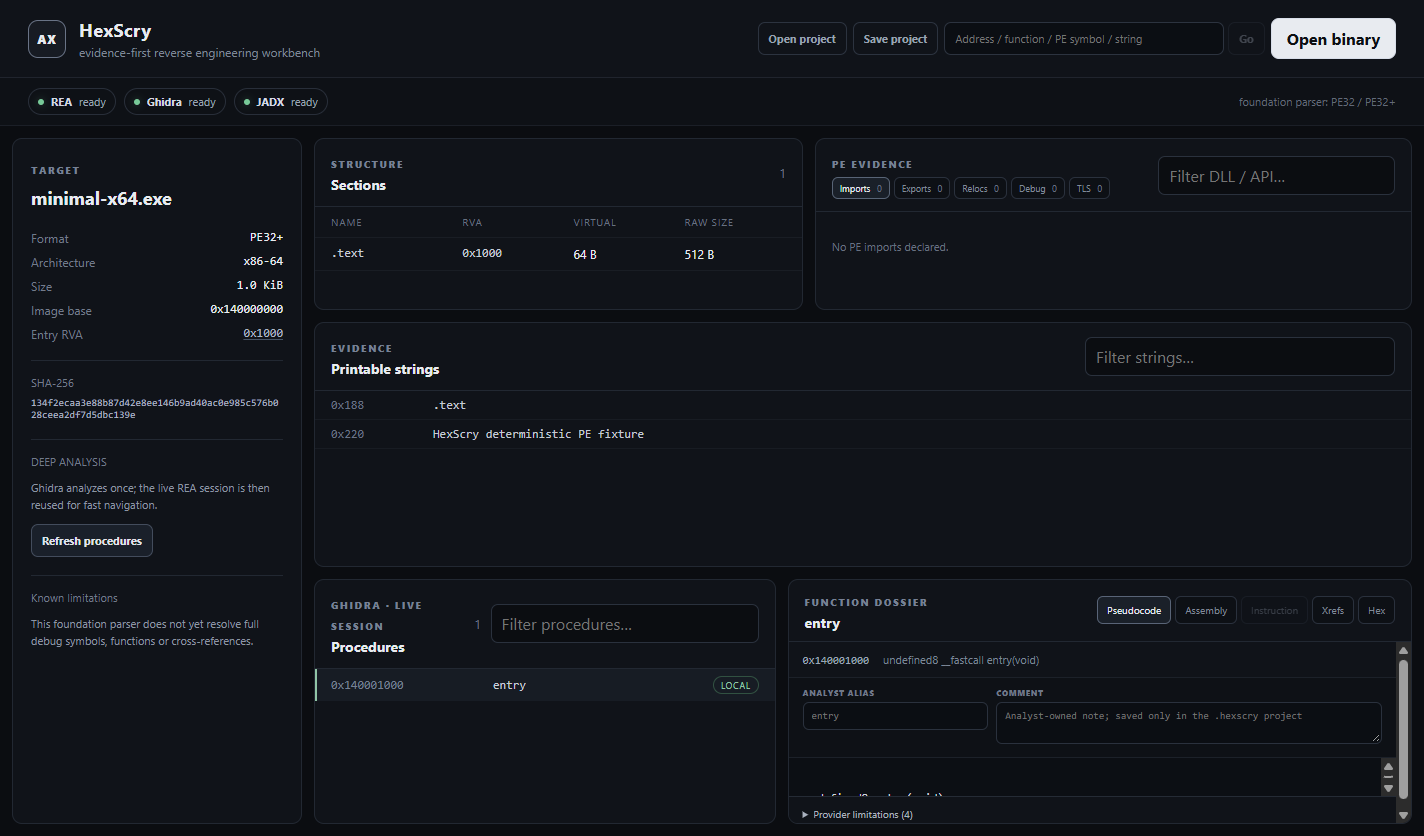
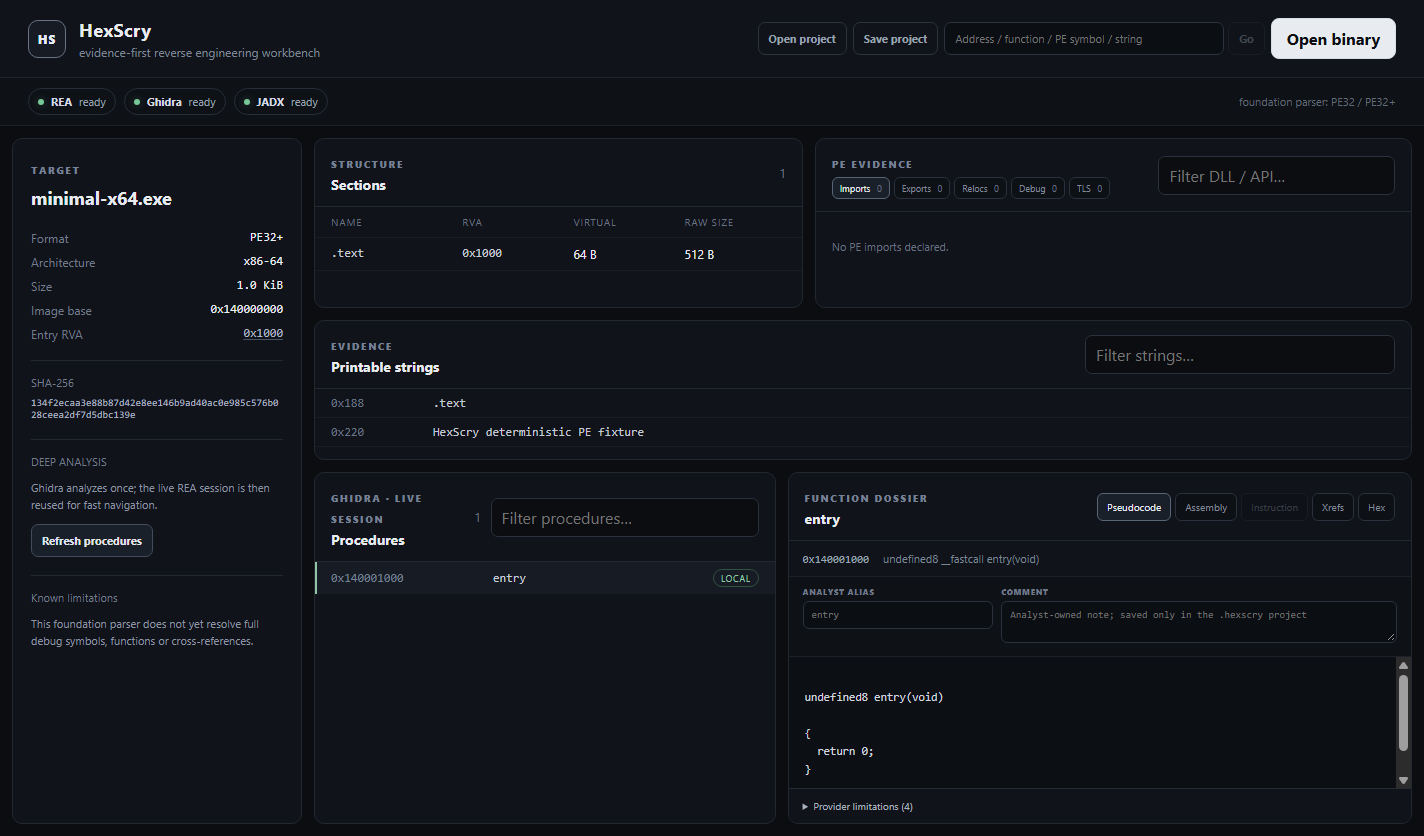
Give the function dossier enough room to read its code

diff --git a/apps/desktop/src/renderer/src/styles.css b/apps/desktop/src/renderer/src/styles.css
@@ -114,7 +114,7 @@ dt { color: #727b8a; } dd { margin: 0; text-align: right; font-family: ui-monosp
 
 .content-grid {
   display: grid;
-  grid-template-rows: minmax(170px, .7fr) minmax(220px, 1fr) minmax(220px, 1fr);
+  grid-template-rows: minmax(155px, .8fr) minmax(140px, .65fr) minmax(345px, 1.65fr);
   gap: 12px;
   min-width: 0;
   min-height: 0;
@@ -201,15 +201,17 @@ dt { color: #727b8a; } dd { margin: 0; text-align: right; font-family: ui-monosp
 .code-tabs button { border: 1px solid #2a313d; background: #0d1015; color: #808999; border-radius: 6px; padding: 6px 9px; font-size: 10px; cursor: pointer; }
 .code-tabs button.active { color: #e5e9f0; border-color: #596477; background: #1a2029; }
 .code-tabs button:disabled { opacity: .35; cursor: default; }
-.function-body { min-height: 0; overflow: auto; display: flex; flex-direction: column; }
+.function-body { flex: 1; min-height: 0; overflow: auto; display: flex; flex-direction: column; }
 .function-meta { display: flex; align-items: baseline; gap: 14px; padding: 10px 14px; border-bottom: 1px solid #1c2129; color: #7c8697; font-size: 11px; }
 .function-meta code { color: #9ba5b5; white-space: nowrap; }
 .function-meta span { overflow: hidden; text-overflow: ellipsis; white-space: nowrap; }
-.function-body pre { margin: 0; padding: 14px 16px 24px; overflow: auto; color: #cfd5df; background: #0c0f14; font: 11.5px/1.55 ui-monospace, SFMono-Regular, Consolas, monospace; tab-size: 4; white-space: pre; flex: 1; }
+.function-body pre { margin: 0; padding: 14px 16px 24px; overflow: auto; color: #cfd5df; background: #0c0f14; font: 11.5px/1.55 ui-monospace, SFMono-Regular, Consolas, monospace; tab-size: 4; white-space: pre; flex: 1 0 8em; }
 .dossier-limitations { border-top: 1px solid #252b35; padding: 10px 14px; color: #8f98a7; font-size: 10px; background: #101319; }
 .dossier-limitations summary { cursor: pointer; color: #aab2bf; }
 .dossier-limitations p { line-height: 1.45; }
 @media (max-width: 1120px) {
+  .workspace { height: auto; }
+  .content-grid { grid-template-rows: 370px 185px minmax(590px, auto); }
   .foundation-grid { grid-template-columns: 1fr; grid-template-rows: minmax(170px, 1fr) minmax(180px, 1fr); }
   .deep-grid { grid-template-columns: 1fr; grid-template-rows: minmax(220px, 1fr) minmax(280px, 1.3fr); }
 }
